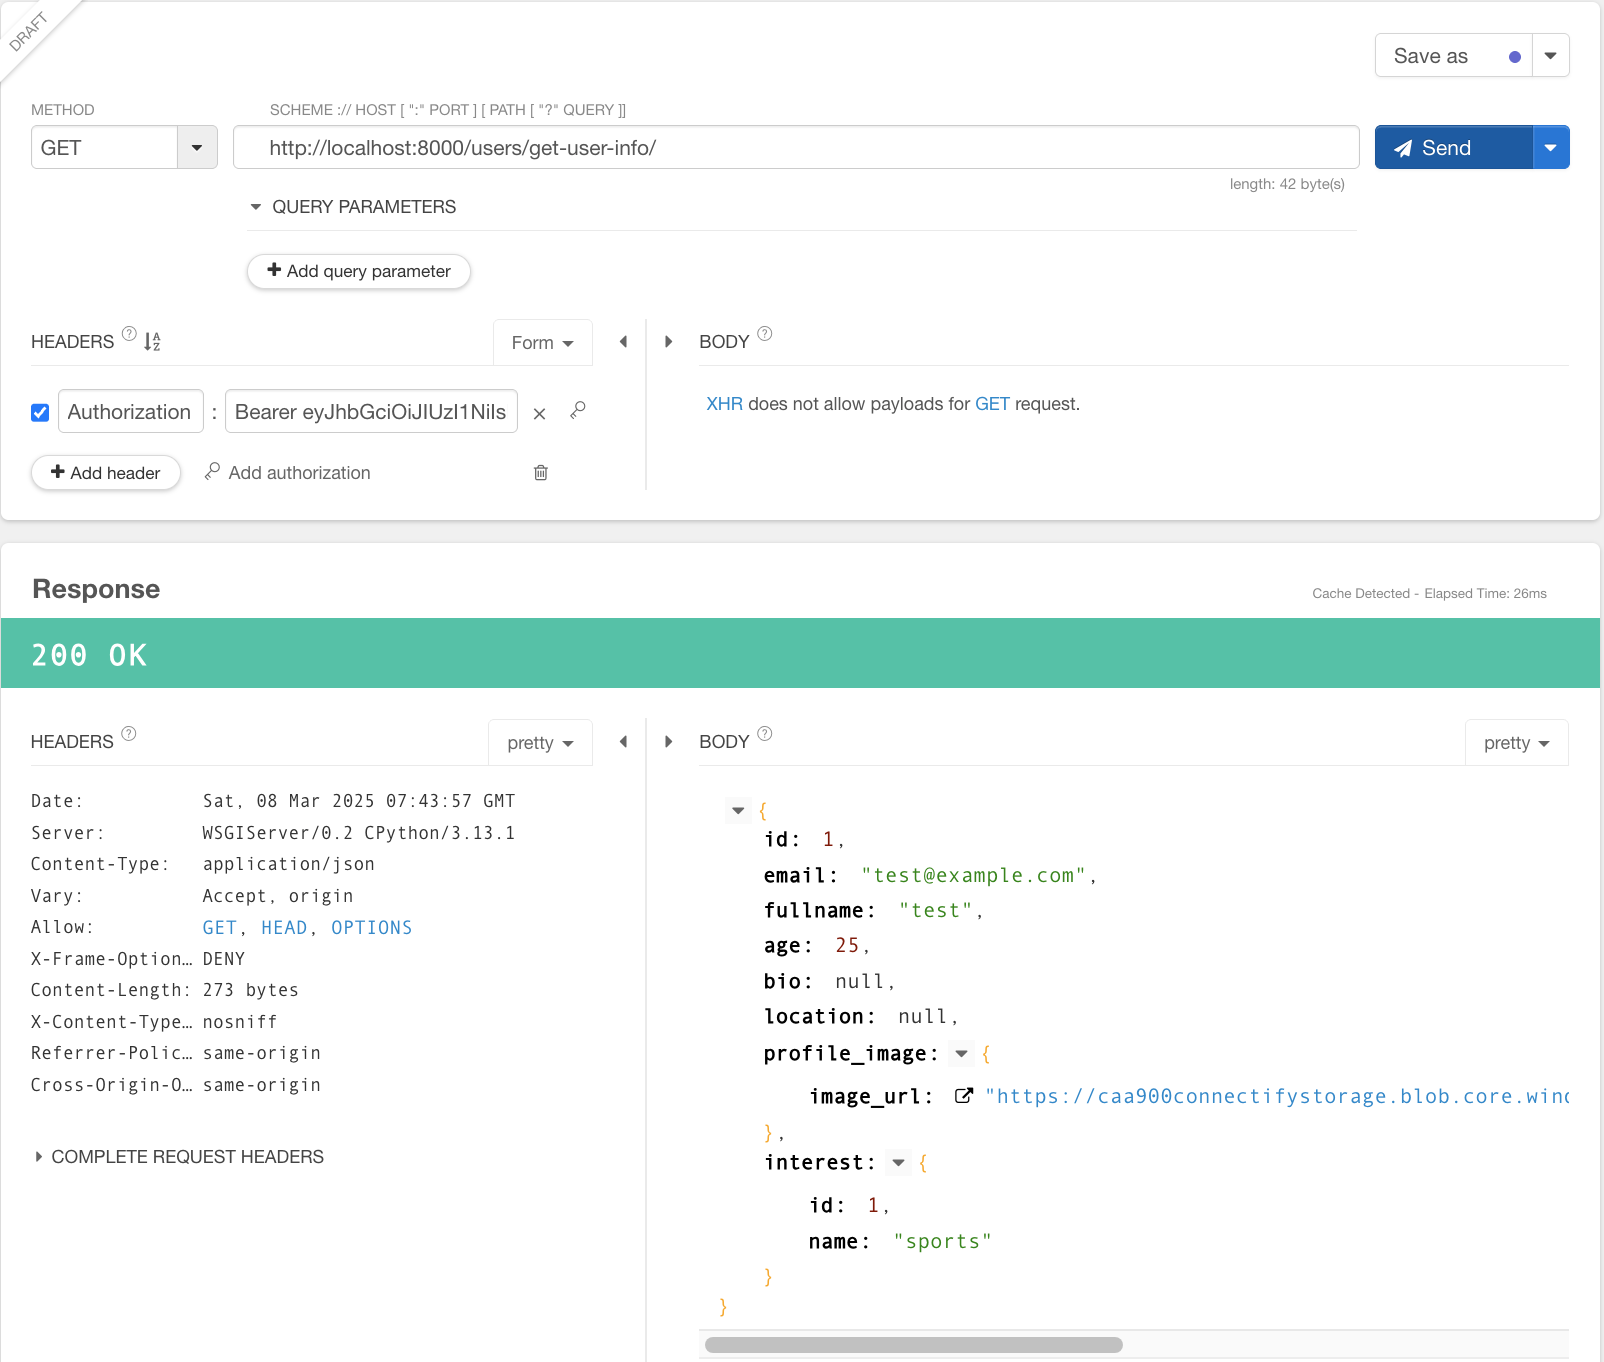
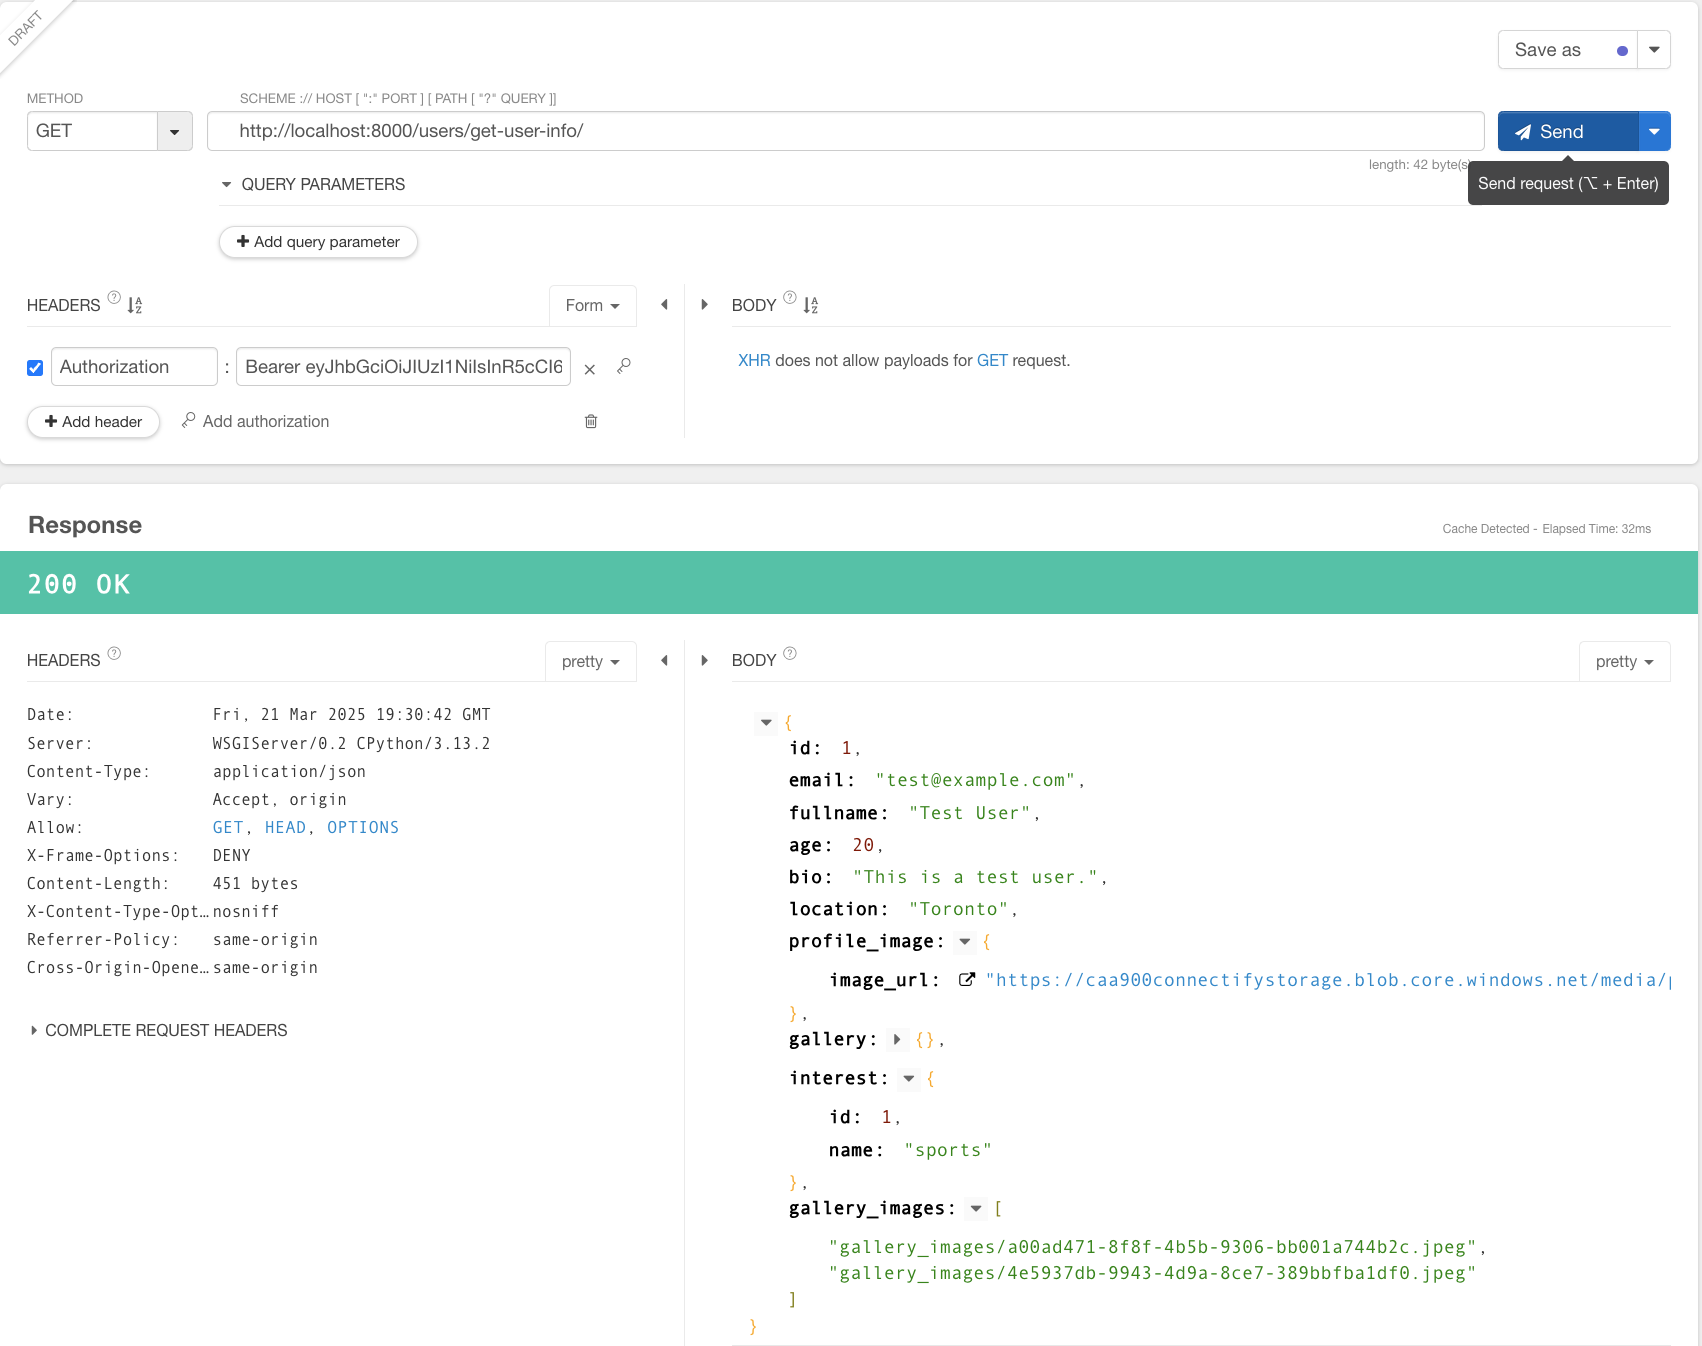
update get-user-info API implementation to get gallery images

diff --git a/users/views.py b/users/views.py
@@ -63,13 +63,27 @@ class RetrieveUserInfoView(APIView):
     def get(self, request):
         user = request.user
 
-        # Optimize the query 
-        user = User.objects.select_related('profile_image', 'interest').get(id=user.id)
         if not user:
             return Response({"error": "User not authenticated"}, status=status.HTTP_401_UNAUTHORIZED)
         
+        # Optimize the query 
+        user = User.objects.select_related('profile_image', 'gallery', 'interest')\
+                        .prefetch_related('gallery__gallery_images')\
+                        .get(id=user.id)
+
+        # Safely extract gallery images if gallery exists
+        gallery_images = []
+        if hasattr(user, 'gallery') and user.gallery:
+            gallery_images = [
+                'gallery_images/' + image.image_url.split('/')[-1]
+                for image in user.gallery.gallery_images.all()
+            ]
+                    
         serializer = UserProfileSerializer(user)
-        return Response(serializer.data, status=status.HTTP_200_OK)
+        data = serializer.data
+        data['gallery_images'] = gallery_images
+
+        return Response(data, status=status.HTTP_200_OK)
 
 
 # User Profile Update API

diff --git a/users/serializers.py b/users/serializers.py
@@ -51,7 +51,7 @@ class GallerySerializer(serializers.ModelSerializer):
 
     class Meta:
         model = Gallery
-        fields = ['name', 'description', 'images']
+        fields = ['images']
 
 
 class InterestSerializer(serializers.ModelSerializer):
@@ -70,6 +70,12 @@ class UserProfileSerializer(serializers.ModelSerializer):
         fields = ['id', 'email', 'fullname', 'age', 'bio', 'location', 
                   'profile_image', 'gallery', 'interest']
 
+    def get_gallery(self, obj):
+        gallery = getattr(obj, 'gallery', None)
+        if gallery is not None:
+            return GallerySerializer(gallery).data
+        return None
+    
 
 class ChangePasswordSerializer(serializers.Serializer):
     old_password = serializers.CharField(write_only=True, required=True)

diff --git a/users/signals.py b/users/signals.py
@@ -6,10 +6,12 @@ from users.models import UserProfile, ProfileImage, Gallery
 def create_profile_image(sender, instance, created, **kwargs):
     if created:
         # When a new UserProfile is created, create a ProfileImage associated with it
-        ProfileImage.objects.create(user=instance)
+        # ProfileImage.objects.create(user=instance)
+        instance.save()
 
 
 @receiver(post_save, sender=UserProfile)
 def create_gallery(sender, instance, created, **kwargs):
     if created:
-        Gallery.objects.create(user=instance)
+        # Gallery.objects.create(user=instance)
+        instance.save()

diff --git a/README.md b/README.md
@@ -34,13 +34,7 @@ docker ps -a
 docker exec -it <django_app_container_id> python manage.py migrate
 ```
 
-5. Insert example data
-
-```
-python manage.py dbshell < database/migrate_data.sql
-```
-
-6. Stop containers
+5. Stop containers
 
 Stop the containers
 
@@ -97,14 +91,16 @@ Install dependencies
 ```pip install -r requirements.txt```
 
 
-### 3. Make migrations and migrate
+### 3. Make migrations, then migrate and insert example data
 
 For development purpose, the .env file is included in the repo. It includes necessary environment variables to ensure code runs smoothly
 
 ```
 python manage.py makemigrations
 python manage.py migrate
+python manage.py dbshell < database/migrate_data.sql
 ```
+
 
 > **_Note:_** If something wrong when you run `python manage.py makemigrations`, try deleting `0001_initial.py` and run the command again.
 
